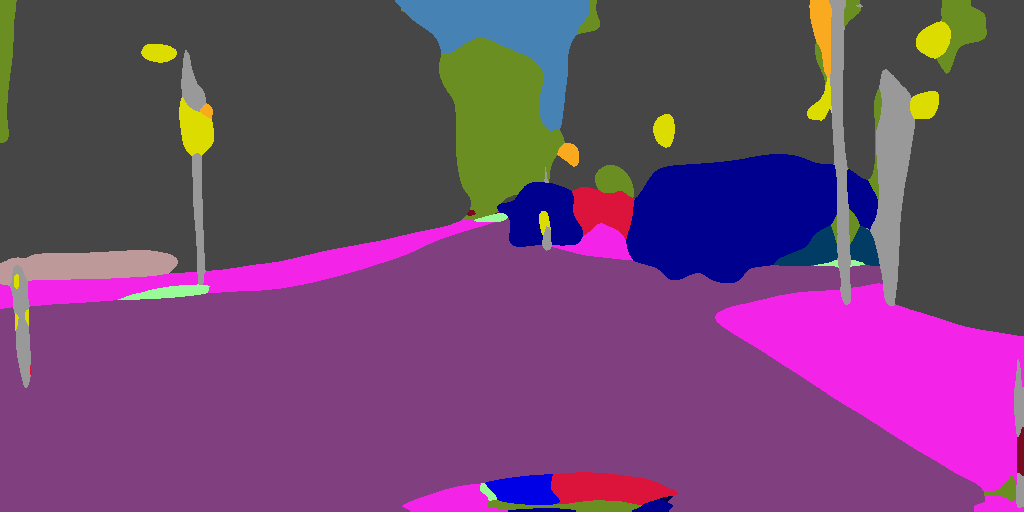
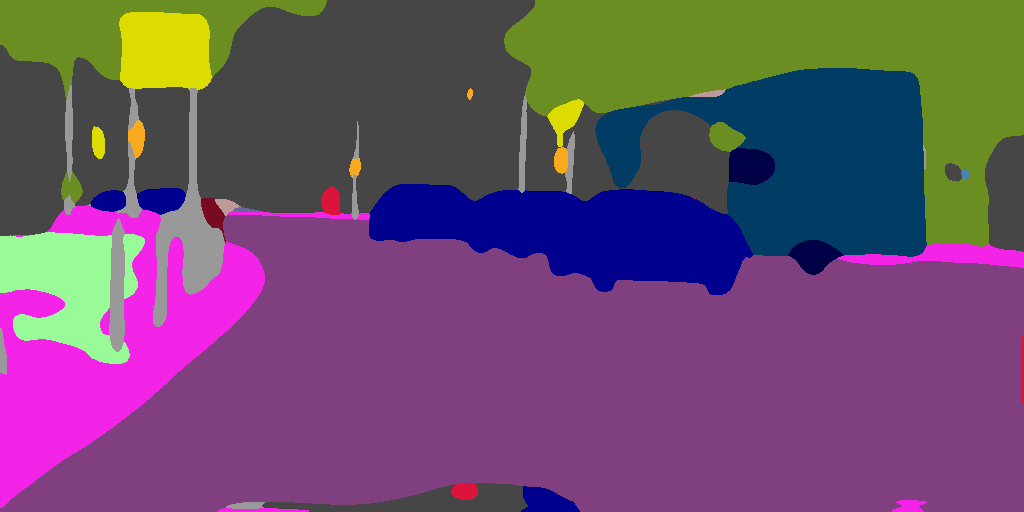
added last copy model

diff --git a/code/demo.py b/code/demo.py
@@ -34,6 +34,14 @@ def create_cityscapes_label_colormap():
 	return colormap 
 
 if __name__ == '__main__':
+
+	future_img_features = "../cityscapes_halfres_features_r18/val/frankfurt_000001_027325_leftImg8bit.npy"
+	past0_features = "../cityscapes_halfres_features_r18/val/frankfurt_000001_027313_leftImg8bit.npy"
+	past1_features = "../cityscapes_halfres_features_r18/val/frankfurt_000001_027316_leftImg8bit.npy"
+	past2_features = "../cityscapes_halfres_features_r18/val/frankfurt_000001_027319_leftImg8bit.npy"
+	past3_features = "../cityscapes_halfres_features_r18/val/frankfurt_000001_027322_leftImg8bit.npy"
+	future_img_gt = "../cityscapes-gt/val/frankfurt_000001_027325_gtFine_labelTrainIds.png"
+
 	input_features = 128
 	num_classes = 19
 	output_features_res = (128, 256)
@@ -41,7 +49,7 @@ if __name__ == '__main__':
 	resnet = resnet18(pretrained=False, efficient=False)
 	segm_model = ScaleInvariantModel(resnet, num_classes)
 	segm_model.load_state_dict(torch.load("../weights/r18_halfres_semseg.pt"))
-	f2f_model = ConvF2F().to("cuda")
+	f2f_model = ConvF2F()
 	f2f_model.eval()
 	f2f_model.load_state_dict(torch.load("../weights/conv-f2f.pt"))
 	colormap = create_cityscapes_label_colormap()
@@ -49,7 +57,7 @@ if __name__ == '__main__':
 	mean = torch.tensor(np.load("../cityscapes_halfres_features_r18/mean.npy"), requires_grad=False).view(1, input_features, 1, 1)
 	std = torch.tensor(np.load("../cityscapes_halfres_features_r18/std.npy"), requires_grad=False).view(1, input_features, 1, 1)
 
-	oracle = torch.from_numpy(np.load("../cityscapes_halfres_features_r18/val/frankfurt_000000_000294_leftImg8bit.npy")).unsqueeze(0)
+	oracle = torch.from_numpy(np.load(future_img_features)).unsqueeze(0)
 	oracle = oracle * std + mean
 	oracle_logits, oracle_additional_dict = segm_model.forward_up(oracle, output_features_res, output_preds_res)
 	oracle_preds = torch.argmax(oracle_logits, 1).squeeze().numpy()
@@ -57,10 +65,10 @@ if __name__ == '__main__':
 	Image.fromarray(preds_colored).save("../demo_out_oracle.png")
 	print("Oracle prediction saved to ../demo_out_oracle.png")
 
-	past0 = np.load("../cityscapes_halfres_features_r18/val/frankfurt_000000_000282_leftImg8bit.npy")
-	past1 = np.load("../cityscapes_halfres_features_r18/val/frankfurt_000000_000285_leftImg8bit.npy")
-	past2 = np.load("../cityscapes_halfres_features_r18/val/frankfurt_000000_000288_leftImg8bit.npy")
-	past3 = np.load("../cityscapes_halfres_features_r18/val/frankfurt_000000_000291_leftImg8bit.npy")
+	past0 = np.load(past0_features)
+	past1 = np.load(past1_features)
+	past2 = np.load(past2_features)
+	past3 = np.load(past3_features)
 	past_tensor = torch.from_numpy(np.vstack([past0, past1, past2, past3]))
 	predicted_features = f2f_model.forward(past_tensor).unsqueeze(0)
 	logits, additional_dict = segm_model.forward_up(predicted_features, output_features_res, output_preds_res)
@@ -69,7 +77,7 @@ if __name__ == '__main__':
 	Image.fromarray(preds_colored).save("../demo_out_predicted.png")
 	print("F2F prediction saved to ../demo_out_predicted.png")
 
-	real_img_semantics = np.array(Image.open("../cityscapes-gt/val/frankfurt_000000_000294_gtFine_labelTrainIds.png").resize((1024, 512), Image.NEAREST))
+	real_img_semantics = np.array(Image.open(future_img_gt).resize((1024, 512), Image.NEAREST))
 	real_img_semantics_colored = colormap[real_img_semantics]
 	Image.fromarray(real_img_semantics_colored).save("../demo_out_real.png")
 	print("Real semantics saved to ../demo_out_real.png")

diff --git a/code/test.py b/code/test.py
@@ -41,6 +41,7 @@ class Oracle(Model):
 	"""
 	An oracle model - it will take future_features and 
 	simply do the upsampling path of a ResNet-18 network.
+	This model should provide the upper bound for F2F mIoU.
 	"""
 	def name(self):
 		return "Oracle"
@@ -48,6 +49,21 @@ class Oracle(Model):
 	def forecast(self, past_features : torch.Tensor, future_features : torch.Tensor) -> np.ndarray:
 		future_features_normalized = future_features  * self.std + self.mean
 		logits, additional_dict = self.segm_model.forward_up(future_features_normalized, self.output_features_res, self.output_preds_res)
+		preds = torch.argmax(logits, 1).squeeze().cpu().numpy()
+		return preds
+
+class CopyLast(Model):
+	"""
+	A model which just copies the most recent past image's tensors.
+	This model should provide the lower bound for F2F mIoU.
+	"""
+	def name(self):
+		return "Copy-Last"
+
+	def forecast(self, past_features : torch.Tensor, future_features : torch.Tensor) -> np.ndarray:
+		last = past_features[(512-128):512] # TODO: potentially look into not hardcoding these values?
+		last_normalized = last  * self.std + self.mean
+		logits, additional_dict = self.segm_model.forward_up(last_normalized, self.output_features_res, self.output_preds_res)
 		preds = torch.argmax(logits, 1).squeeze().cpu().numpy()
 		return preds
 
@@ -87,7 +103,7 @@ if __name__ == '__main__':
 	print(f"Dataset contains {len(dataset)} items")
 
 	sys.stdout = open(os.devnull, 'w') # disable printing
-	models: list[Model] = [Oracle(), Conv_F2F()]
+	models: list[Model] = [Oracle(), CopyLast(), Conv_F2F()]
 	sys.stdout = sys.__stdout__ # enable printing
 
 	all_classes = [0,1,2,3,4,5,6,7,8,9,10,11,12,13,14,15,16,17,18]
@@ -101,7 +117,7 @@ if __name__ == '__main__':
 		for past_features, future_features, ground_truth in dataset:
 			past_features, future_features = past_features.to("cuda"), future_features.to("cuda")
 			prediction = model.forecast(past_features, future_features)
-			total_miou += mIoU(prediction, ground_truth, all_classes)
+			total_miou += mIoU(prediction, ground_truth, all_classes, 255)
 			count += 1
 		miou = total_miou / count
 		print("\tmIoU: %.3f" % miou) 
@@ -111,7 +127,7 @@ if __name__ == '__main__':
 		for past_features, future_features, ground_truth in dataset:
 			past_features, future_features = past_features.to("cuda"), future_features.to("cuda")
 			prediction = model.forecast(past_features, future_features)
-			total_miou += mIoU(prediction, ground_truth, moving_objects_classes)
+			total_miou += mIoU(prediction, ground_truth, moving_objects_classes, 255)
 			count += 1
 		miou = total_miou / count
 		print("\tmIoU-MO: %.3f" % miou) 

diff --git a/code/util.py b/code/util.py
@@ -1,29 +1,6 @@
 import numpy as np
 
-def IoU(nparray1, nparray2, class_number):
-	"""
-	Args:
-		nparray1 (np.ndarray) - first array
-		nparray2 (np.ndarray) - second array
-		class_number (int) - class label to calculate IoU for
-
-	Returns:
-		Intersection over Union between two arrays for given class
-	"""
-
-	intersection = 0
-	union = 0
-	for pixel1, pixel2 in np.nditer([nparray1, nparray2]):
-		if pixel1 == class_number and pixel2 == class_number:
-			intersection += 1
-		if pixel1 == class_number or pixel2 == class_number:
-			union += 1
-	if (union == 0):
-		return 0
-	else:
-		return 1.0*intersection/union
-
-def mIoU(nparray1, nparray2, classes, void_class = None):
+def mIoU(nparray1, nparray2, classes, void_class = 255):
 	"""
 	Args:
 		nparray1 (np.ndarray) - first array
